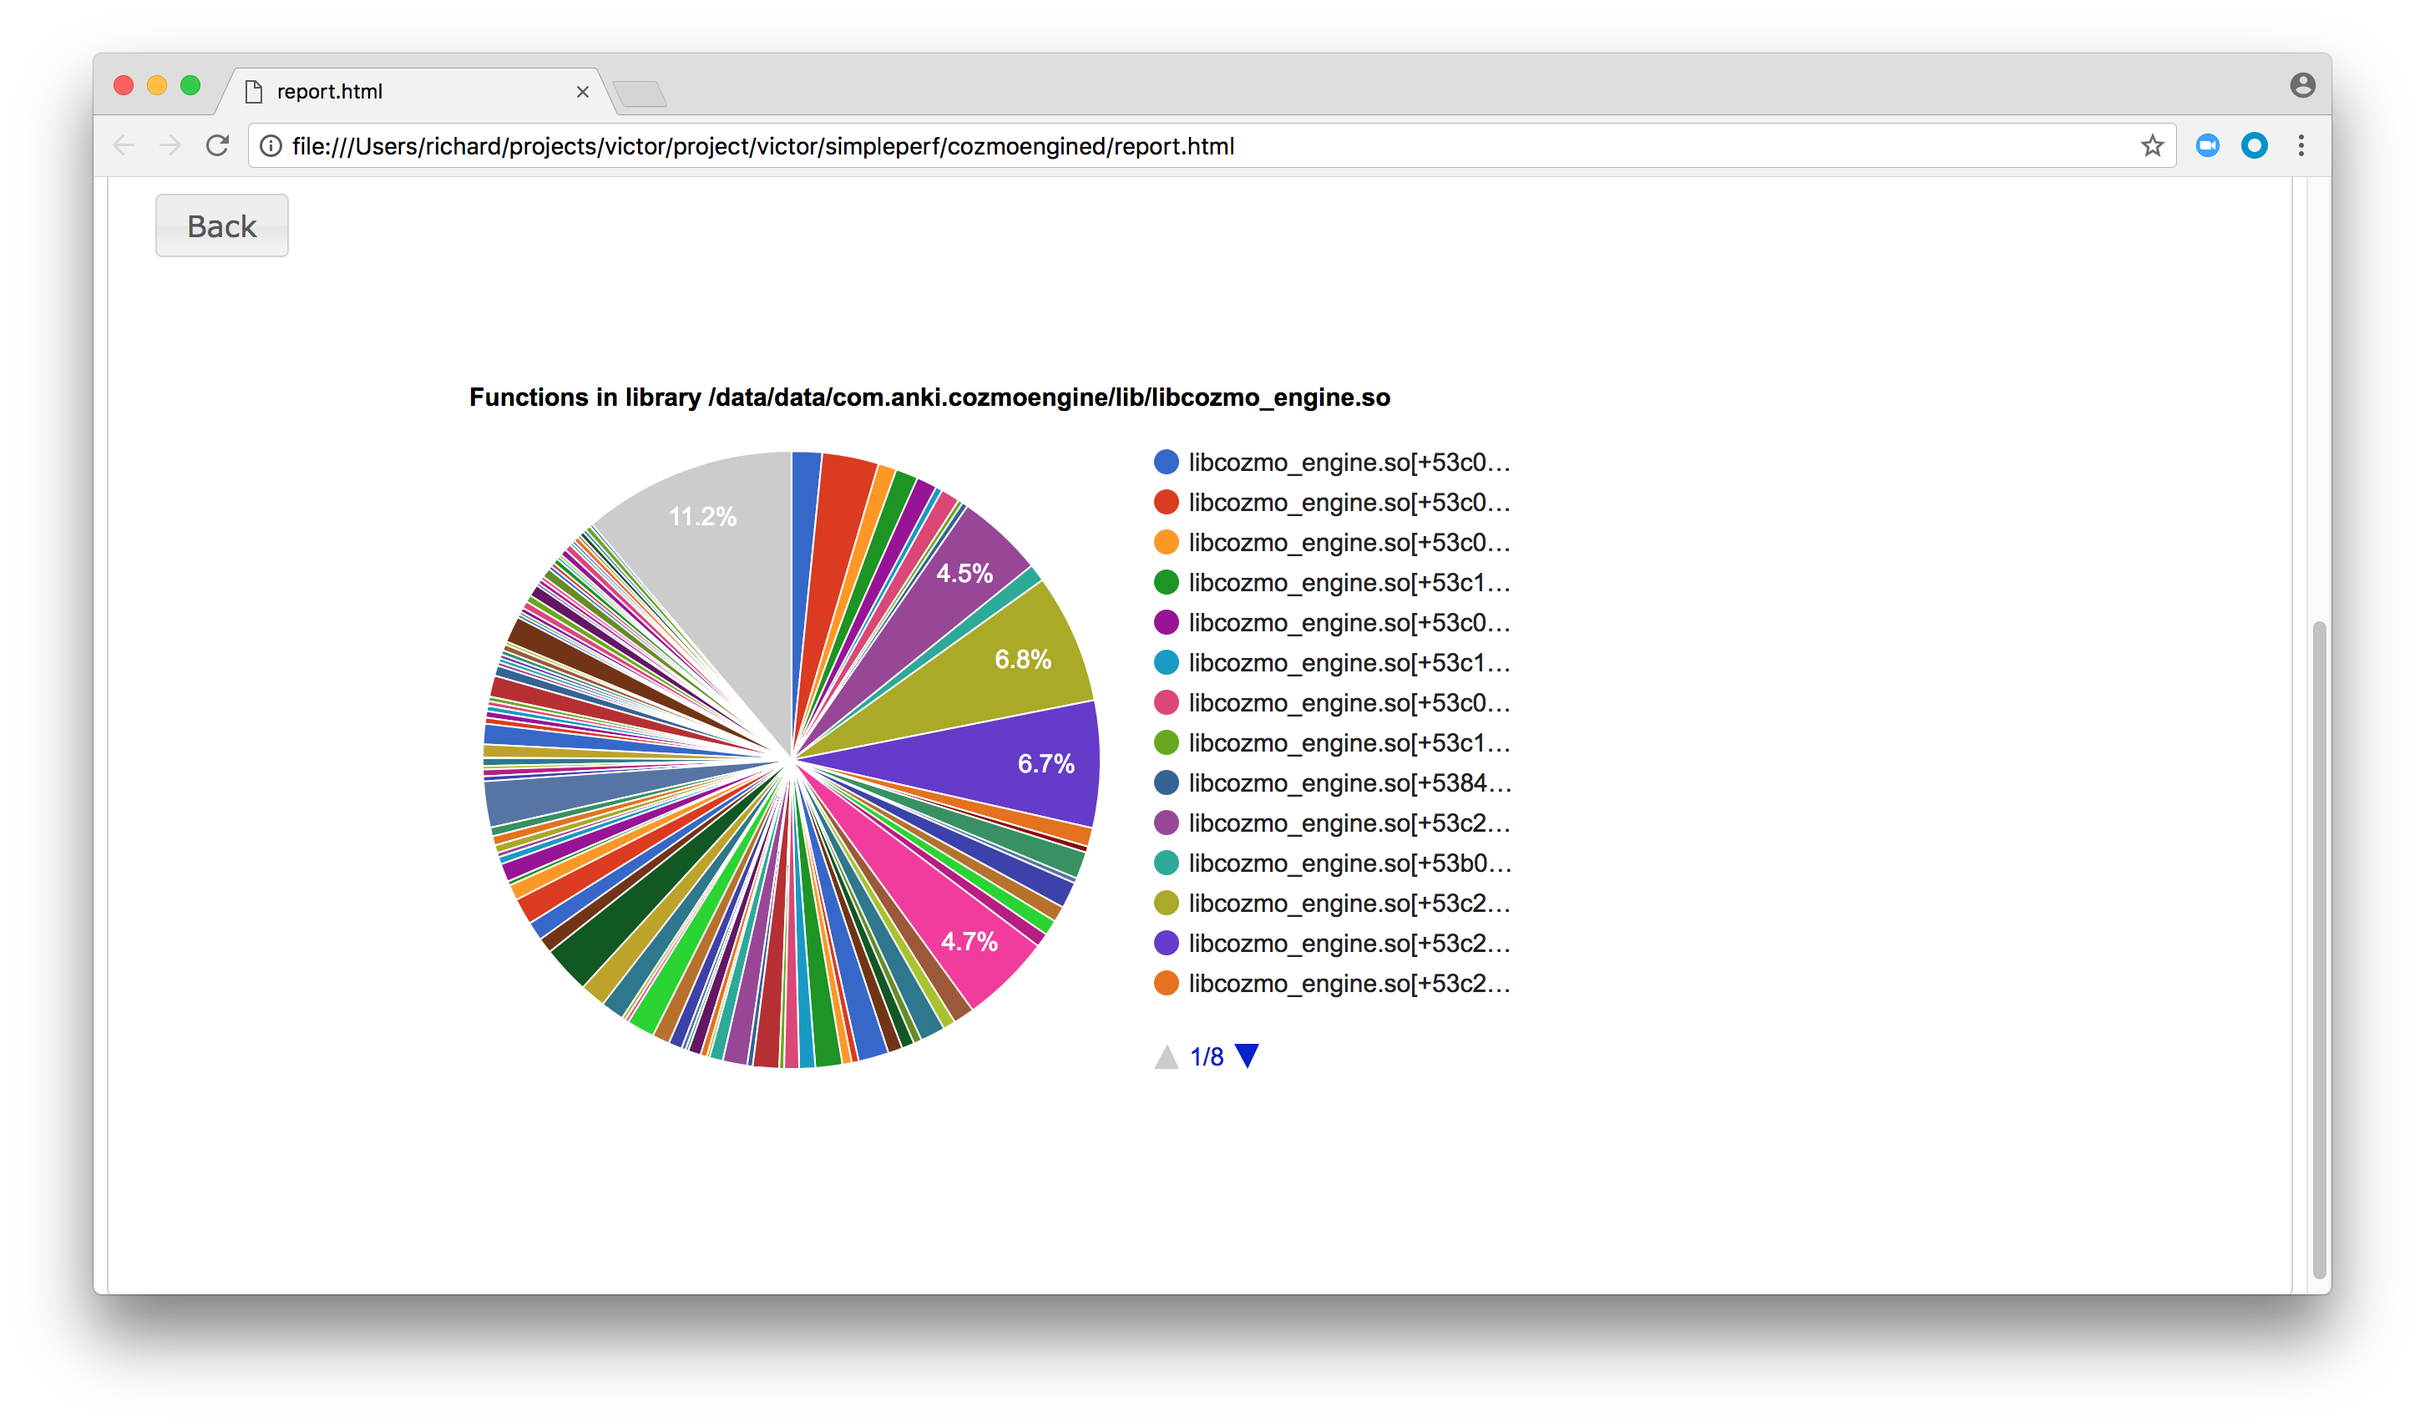
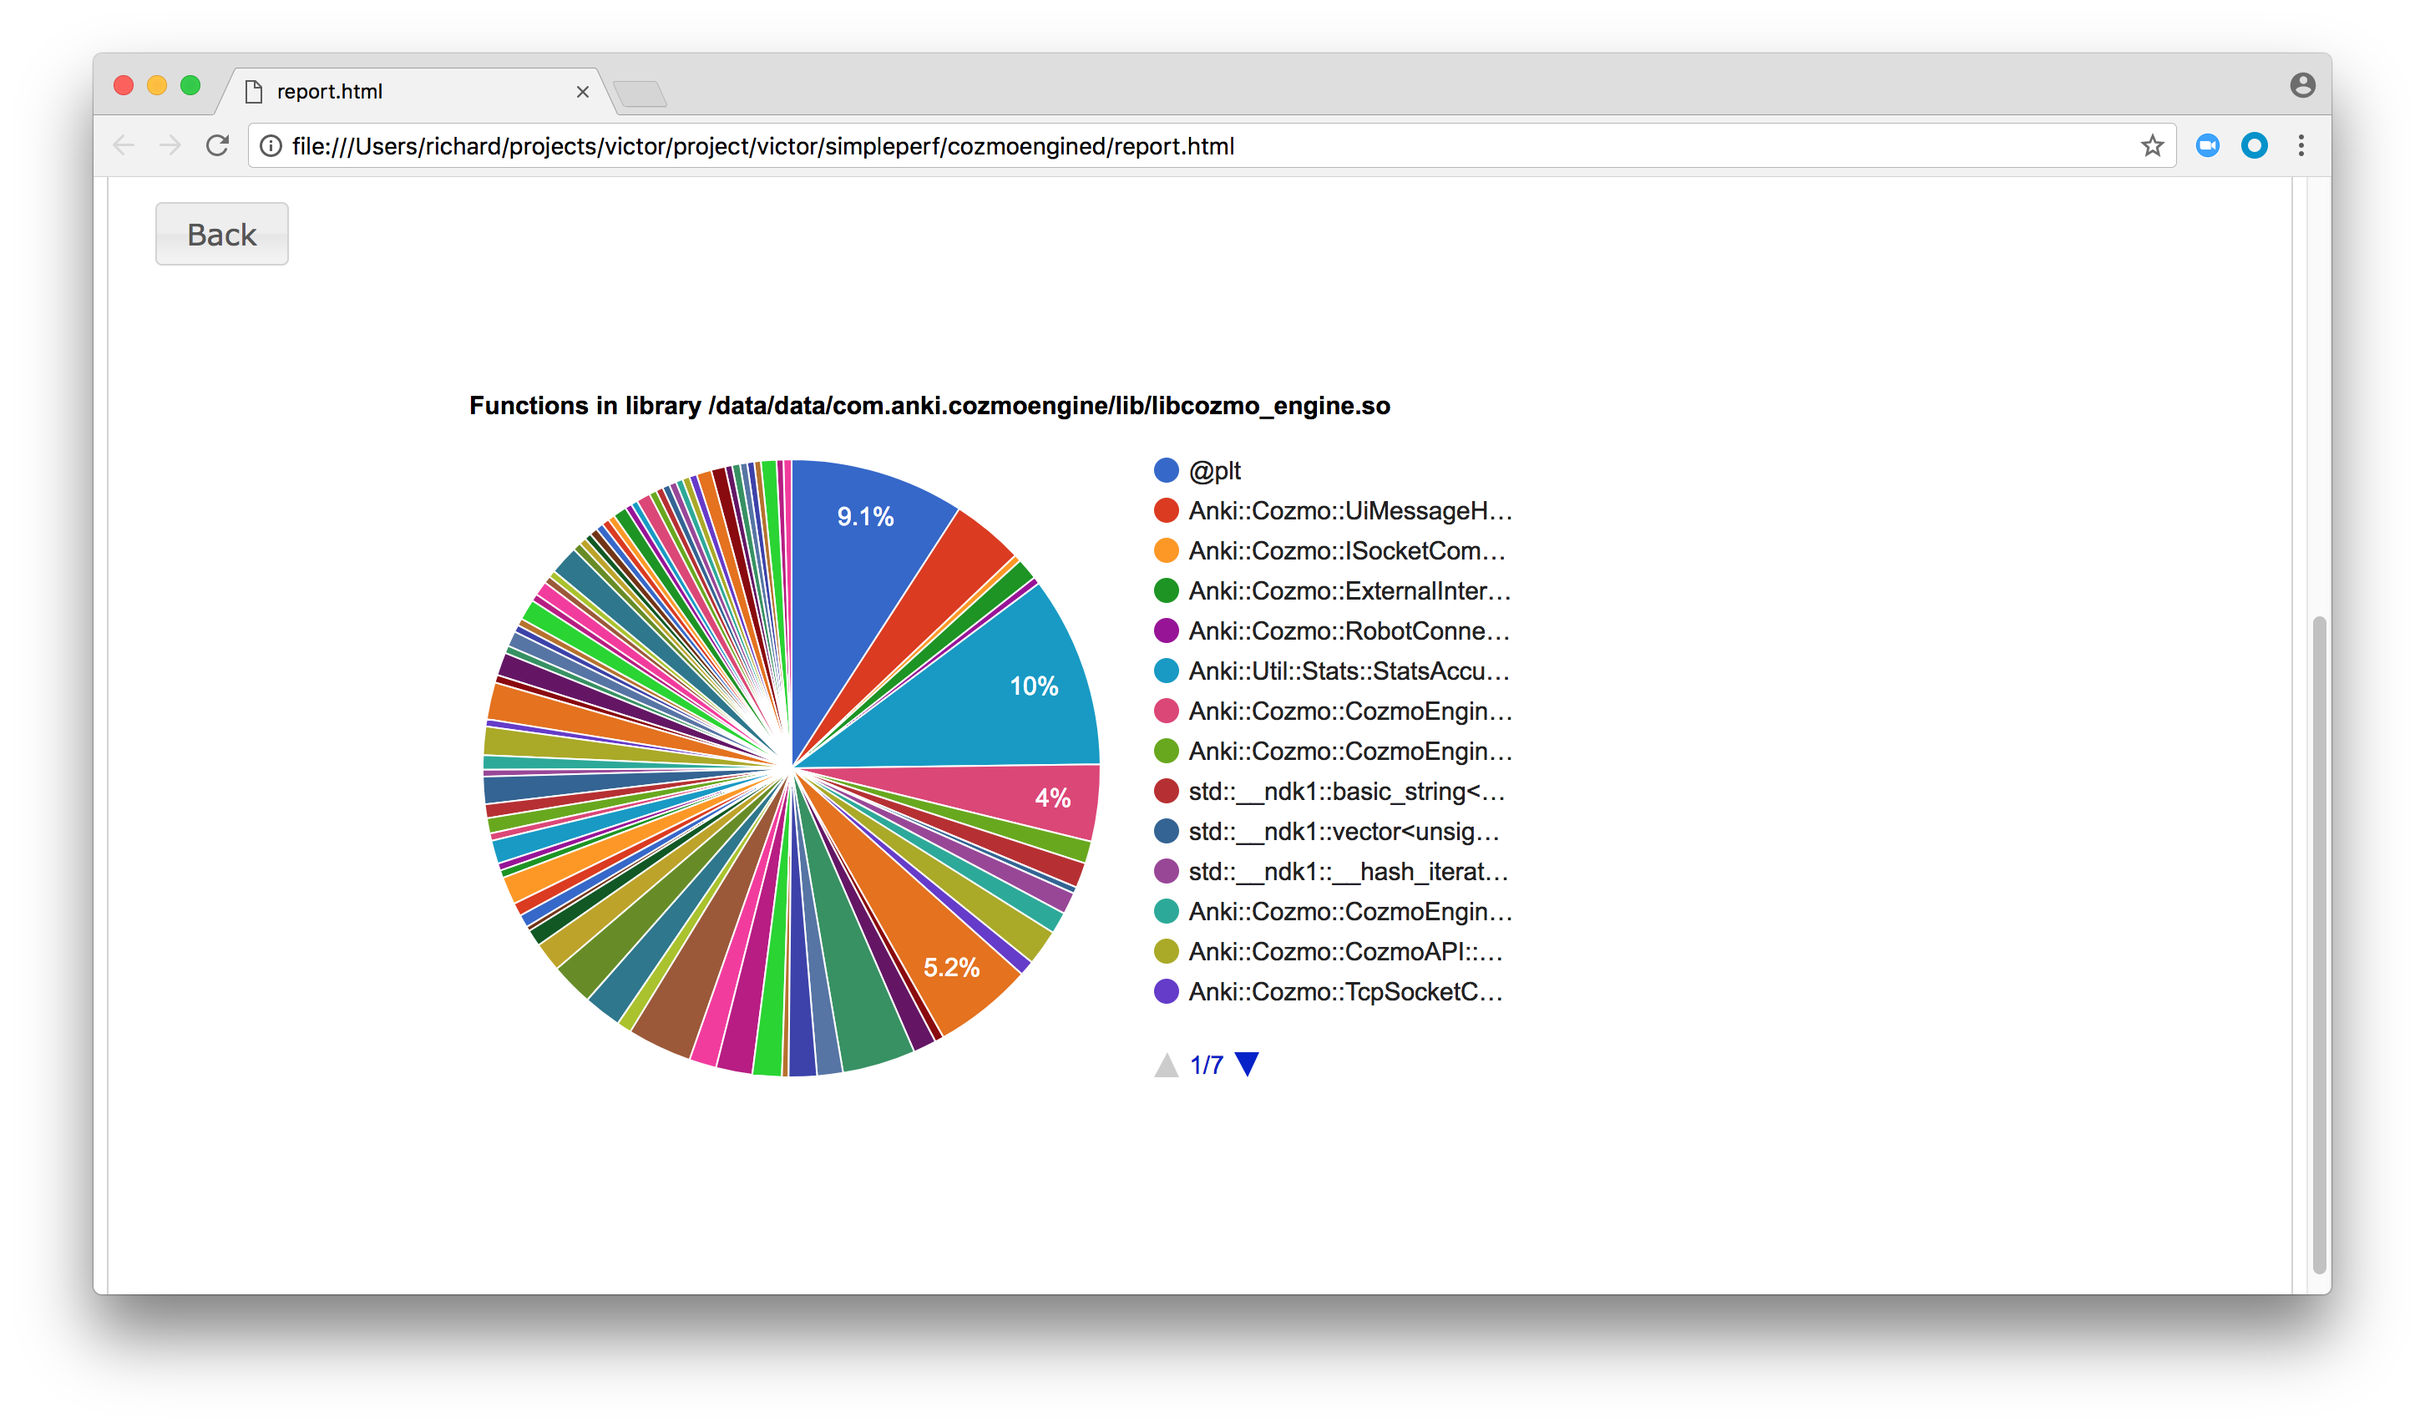
VIC-1252 Improvements and documentation for profiling on Victor (#633)
* VIC-1252 Improvements and documentation for profiling on Victor

Additional improvements to scripts and documentation
Separate optional HOW-record.sh

* Build break, click link
Log into VPN
Two-factor authorization
Log into TC
Two-factor authorization
See link break
Learn lesson.

* PR review

* PR review

Changed region(s): [[0.186, 0.248, 0.6198, 0.7749], [0.062, 0.155, 0.124, 0.186]]

diff --git a/docs/development/profiling.md b/docs/development/profiling.md
@@ -1,32 +1,36 @@
 # Victor Profiling
 
-Profiling on Victor is based on `simpleperf` [../project/victor/simpleperf/README.md]
+Profiling on Victor is based on [simpleperf](../../project/victor/simpleperf/README.md).
 
 ## Preparation
 
 Create and deploy a release build.
 
-  ./project/victor/build-victor.sh -c Release
+```
+victor_build
+victor_deploy
+```
 
-  ANKI_BUILD_TYPE=Release ./project/victor/scripts/deploy.sh
+## One-shot recording and reporting
 
-## Recording and reporting
+```HOW-simpleperf.sh``` recognizes the following environment variables, with default values shown:
 
-HOW-simpleperf.sh recognizes the following environment variables, with default values shown:
+```
+ANKI_PROFILE_PROCNAME=cozmoengined
 
-  ANKI_PROFILE_PROCNAME=cozmoengined
+ANKI_PROFILE_DURATION=10 (in seconds)
 
-  ANKI_PROFILE_DURATION=10 (in seconds)
+ANKI_PROFILE_FREQUENCY=4000 (in usec)
 
-  ANKI_PROFILE_FREQUENCY=4000 (in usec)
-
-  ANKI_PROFILE_SYMBOLCACHE=symbol_cache
+ANKI_PROFILE_SYMBOLCACHE=symbol_cache
+```
 
 Default values may be overridden as needed:
 
-  # ANKI_PROFILE_PROCNAME=victor_animator bash HOW-inferno.sh
+```ANKI_PROFILE_PROCNAME=victor_animator bash HOW-inferno.sh```
 
 Current Victor processes are:
+
 * cloud_process
 * cozmoengined
 * robot_supervisor
@@ -34,59 +38,135 @@ Current Victor processes are:
 
 Additional arguments can be passed to the report generation:
 
-  # ./HOW-simpleperf.sh --sort tid
+```
+./HOW-simpleperf.sh --sort tid
+./HOW-simpleperf.sh --tids 1734
+```
 
-  # ./HOW-simpleperf.sh --tids 1734
+## Recording
 
-## Additional Reporting
+`./HOW-record.sh` to capture performance data.
 
-Once HOW-simpleperf.sh has run and the initial report generated further reports can be generated. These, HOW-inferno.sh, HOW-annotate.sh, HOW-reportchart.sh, HOW-reportsamples.sh, also recognise the same environment variables.
+![How-simpleperf screen shot](images/HOW-simpleperf.png)
 
-### HOW-simpleperf.sh [../project/victor/simpleperf/HOW-simpleperf.sh]
+Column       |Meaning
+-------------|--------
+Overhead     |indicates the percentage of the overall samples collected in the corresponding function
+Command      |the process from which the samples were collected
+Pid          |process id
+Tid          |thread id
+Shared Object|name of the ELF image/library where the samples came from
+Symbol       |unmangled C++ symbol name
 
-(images/HOW-simpleperf.png)
+## Reporting
 
-### HOW-inferno.sh [../project/victor/simpleperf/HOW-inferno.sh]
+```./HOW-report.sh``` to produce same output as ```./HOW-simpleperf.sh```
 
-Flame graph
+```./HOW-report.sh --sort tid``` to list threads, most expensive first
 
-(images/HOW-annotate.png)
+```
+Cmdline: /data/local/tmp/simpleperf record -e cpu-cycles:u -f 4000 --duration 10 -o /data/local/tmp/perf.data -p 9462
+Arch: arm
+Event: cpu-cycles:u (type 0, config 0)
+Samples: 3418
+Event count: 43896856
 
-### HOW-annotate.sh [../project/victor/simpleperf/HOW-annotate.sh]
+Overhead  Tid
+59.25%    9660
+15.30%    9787
+12.62%    9780
+8.04%     9760
+2.92%     9462
+1.66%     9759
+0.21%     9655
+```
 
-Annotated source code.
+```./HOW-report.sh --tids 9660``` to view the results for a specific thread
 
-(images/HOW-annotate.png)
+```
+Overhead  Command      Pid   Tid   Shared Object                                               Symbol
+5.96%     CozmoRunner  9462  9660  /data/data/com.anki.cozmoengine/lib/libcozmo_engine.so      Anki::Util::Stats::StatsAccumulator::operator+=(double)
+5.43%     CozmoRunner  9462  9660  /data/data/com.anki.cozmoengine/lib/libcozmo_engine.so      @plt
+3.10%     CozmoRunner  9462  9660  /data/data/com.anki.cozmoengine/lib/libcozmo_engine.so      Anki::Cozmo::UiMessageHandler::Update()
+2.40%     CozmoRunner  9462  9660  /data/data/com.anki.cozmoengine/lib/libcozmo_engine.so      Anki::Cozmo::CozmoEngine::Update(unsigned long long)
+2.28%     CozmoRunner  9462  9660  /data/data/com.anki.cozmoengine/lib/libcozmo_engine.so      Anki::Util::CpuThreadProfiler::AddSample(std::__ndk1::chrono::time_point<std::__ndk1::chrono::steady_clock, std::__ndk1::chrono::duration<long long, std::__ndk1::ratio<1ll, 1000000000ll> > > const&, std::__ndk1::chrono::time_point<std::__ndk1::chrono::steady_clock, std::__ndk1::chrono::duration<long long, std::__ndk1::ratio<1ll, 1000000000ll> > > const&, Anki::Util::CpuProfileSampleShared&)
+2.24%     CozmoRunner  9462  9660  /data/data/com.anki.cozmoengine/lib/libcozmo_engine.so      Anki::Cozmo::UiMessageHandler::DeliverToGame(Anki::Cozmo::ExternalInterface::MessageEngineToGame const&, unsigned int)
+```
 
-### HOW-reportchart.sh [../project/victor/simpleperf/HOW-reportchart.sh]
+For different visualizations also try:
 
-Combine pie chart, samples and flame graph views.
+* ```HOW-inferno.sh```
+* ```HOW-annotate.sh```
+* ```HOW-reportchart.sh```
+* ```HOW-reportsamples.sh```
 
-(images/HOW-reportchart1.png)
-(images/HOW-reportchart2.png)
-(images/HOW-reportchart3.png)
+### [HOW-inferno.sh](../../project/victor/simpleperf/HOW-inferno.sh)
 
-### HOW-reportsamples.sh [../project/victor/simpleperf/HOW-reportsamples.sh]
+[Inferno](../../lib/util/tools/simpleperf/doc/inferno.md) is a flamegraph generator, the width of a flamegraph represents 100% of the number of samples and the height is related to the number of functions on the stack when sampling occurred.
+
+The flamegraph give you instant vision on the CPU cycles cost centers, specific offenders can be found by looking for plateaus, for example the most expensive task from the sample below is ```CLAHE_Interpolation_Body``` showing in orange with another plateau on the right with ```_raw_spin_unlock_irq```.
+
+![How-inferno screen shot](images/HOW-inferno.png)
+
+### [HOW-annotate.sh](../../project/victor/simpleperf/HOW-annotate.sh)
+
+It is possible to drill down to the source line level with ```HOW-annotate.sh```.  All functions with samples will have the source code annotated where each line will have its relative percentage of samples reported.
+
+![How-annotate screen shot](images/HOW-annotate.png)
+
+### [HOW-reportchart.sh](../../project/victor/simpleperf/HOW-reportchart.sh)
+
+Combined pie chart, samples and flame graph views.
+
+![How-reportchart chart view](images/HOW-reportchart1.png)
+![How-reportchart samples view](images/HOW-reportchart2.png)
+![How-reportchart flame graph](images/HOW-reportchart3.png)
+
+### [HOW-reportsamples.sh](../../project/victor/simpleperf/HOW-reportsamples.sh)
 
 Output of samples suitable for text processing.
 
-(images/HOW-reportsamples.png)
+Column       |Meaning
+-------------|--------
+Shared Object|name of the ELF image/library where the samples came from
+Symbol       |unmangled C++ symbol name
+
+![How-reportsamples screen shot](images/HOW-reportsamples.png)
 
 ## Additional resources
 
-  https://perf.wiki.kernel.org/index.php/Tutorial
-  https://lxr.missinglinkelectronics.com/linux/tools/perf/Documentation/
+<https://perf.wiki.kernel.org/index.php/Tutorial>
+<https://lxr.missinglinkelectronics.com/linux/tools/perf/Documentation>
 
 ## Implementation notes
 
-Note: HOW-simpleperf.sh is equivalent too
+```HOW-simpleperf.sh``` is equivalent to
 
-  python ../lib/util/tools/simpleperf/app_profiler.py -nc -np cozmoengined -r "-e cpu-cycles:u -f 4000 --duration 10" -lib symbol_cache
+```
+python ../lib/util/tools/simpleperf/app_profiler.py
+       -nc
+       -nb
+       -np cozmoengined
+       -r "-e cpu-cycles:u -f 4000 --duration 10"
+       -lib symbol_cache
+```
 
-  The following arguments to app_profiler.py are not applicable to our environment:
-    -p, --app, Profile an Android app, given the package name. Like -p com.example.android.myapp.
-    --apk, When profiling an Android app, we need the apk file to recompile the app on Android version <= M.
-    -a, --activity, When profiling an Android app, start an activity before profiling. It restarts the app if the app is already running.
-    -t, --test, When profiling an Android app, start an instrumentation test before profiling. It restarts the app if the app is already running.
-    --arch, Select which arch the app is running on, possible values are: arm, arm64, x86, x86_64. If not set, the script will try to detect it.
-    --disable_adb_root, Force adb to run in non root mode
+The following are arguments to ```app_profiler.py```:
+
+Short name|Long name              |N/A|Description
+----------|-----------------------|---|-----------
+-a        |--activity             |X  |Start an activity before profiling. It restarts the app if the app is already running.
+          |--apk                  |X  |Apk file to recompile the app on Android version <= M.
+          |--arch                 |X  |Select which arch the app is running on, possible values are: arm, arm64, x86, x86_64.
+-bin      |--binary_cache_dir     |   |Path to collected binaries from the device used in profiling data.
+          |--cmd                  |X  |Run a cmd and profile it. Like -cmd "pm -l".
+          |--disable_adb_root     |X  |Force adb to run in non root mode
+-lib      |--native_lib_dir       |   |Path to find debug version of native shared libraries used in the app.
+-p        |--app                  |X  |Profile an Android app, given the package name. Like -p com.example.android.myapp.
+-nb       |--skip_collect_binaries|   |By default we collect binaries used in profiling data from device to binary_cache directory. It can be used to annotate source code. This option skips it.
+-nc       |--skip_recompile       |   |Recompiling java bytecode to native instructions can be skipped if the code has been compiled or you don't need to profile java code.
+-np       |--native_program       |   |Profile a native program.
+-o        |--perf_data_path       |   |The path to store profiling data.
+          |--profile_from_launch  |X  |Profile an activity from initial launch. It should be used with -p, -a, and --arch options.
+-r        |--record_options       |   |Set options for `simpleperf record` command. See also [annotated-profiler-events.md](annotated-profiler-events.md)
+-t        |--test                 |X  |When profiling an Android app, start an instrumentation test before profiling. It restarts the app if the app is already running.

diff --git a/docs/architecture/animations.md b/docs/architecture/animations.md
@@ -57,11 +57,11 @@ Animation files and tools are stored in a separate subversion repository, setup 
 
 Facial animations are created and edited in Maya; there is a rig that represents the Victor robot with manipulators for changing both face and eye parameters.
 
-(images/animation_rig.png)
+![](images/animation_rig.png)
 
 Animations are exported by the Maya Game Exporter, segments on the Maya time line are split into multiple files, exported as JSON and binaries, JSON files are further packed into .tar files.
 
-(images/animation_export.png)
+![](images/animation_export.png)
 
 ## Animation Exporter
 
@@ -73,19 +73,24 @@ Animations are exported by the Maya Game Exporter, segments on the Maya time lin
 
 ## Deploy
 
-Exported animation files are pulled into the repo by [`project/victor/build-victor.sh`](/project/victor/build-victor.sh) that issues svn commands to update from the animation repo.
+Exported animation files are pulled into the repo by [`project/victor/build-victor.sh`](../../project/victor/build-victor.sh) that issues svn commands to update from the animation repo.
 
 During deployment only the .bin files are copied onto the robot.
 
 # Webots
 
-Shift + I : Toggle eye rendering between Victor and Cozmo style
+Key       |Effect
+----------|------
+Shift + I | Toggle eye rendering between Victor and Cozmo style
 
 # Webservice
 
-For webots navigate to: http://127.0.0.1:8889/consolevars?ProceduralFace
-For actual hardware navigate to: http://<ip of device>:8889/consolevars?ProceduralFace
+For webots navigate to: <http://127.0.0.1:8889/consolevars?ProceduralFace>
 
-Put a check against ProcFace_OverrideEyeParams to allow the sliders take control of the individual eyes.
-ProcFace_OverrideRightEyeParams will force the eyes to be the same, based on the left eye.
-ProcFace_OverrideReset will reset both eyes from a bad state to the current canned animation state.
+For actual hardware navigate to: http://*robot ip*:8889/consolevars?ProceduralFace
+
+Put a check against *ProcFace_OverrideEyeParams* to allow the sliders take control of the individual eyes.
+
+*ProcFace_OverrideRightEyeParams* will force the eyes to be the same, based on the left eye.
+
+*ProcFace_OverrideReset* will reset both eyes from a bad state to the current canned animation state.

diff --git a/project/victor/simpleperf/README.md b/project/victor/simpleperf/README.md
@@ -1,7 +1,7 @@
 # Simpleperf
 
 Anki modified source code can be found here:
-[../../lib/tools/simpleperf]
+[lib/tools/simpleperf](../../../lib/util/tools/simpleperf)
 
 Original source code can be found here:
 <https://android.googlesource.com/platform/system/extras/+/master/simpleperf/>
@@ -14,4 +14,3 @@ Prebuilt executables are taken from here:
 
 Initial code drop was taken from master branch on 11/9/2017:
 <https://android.googlesource.com/platform/prebuilts/simpleperf/+/2265c7eb3a01f72af30c92de4b318deecdd582b9>
-
